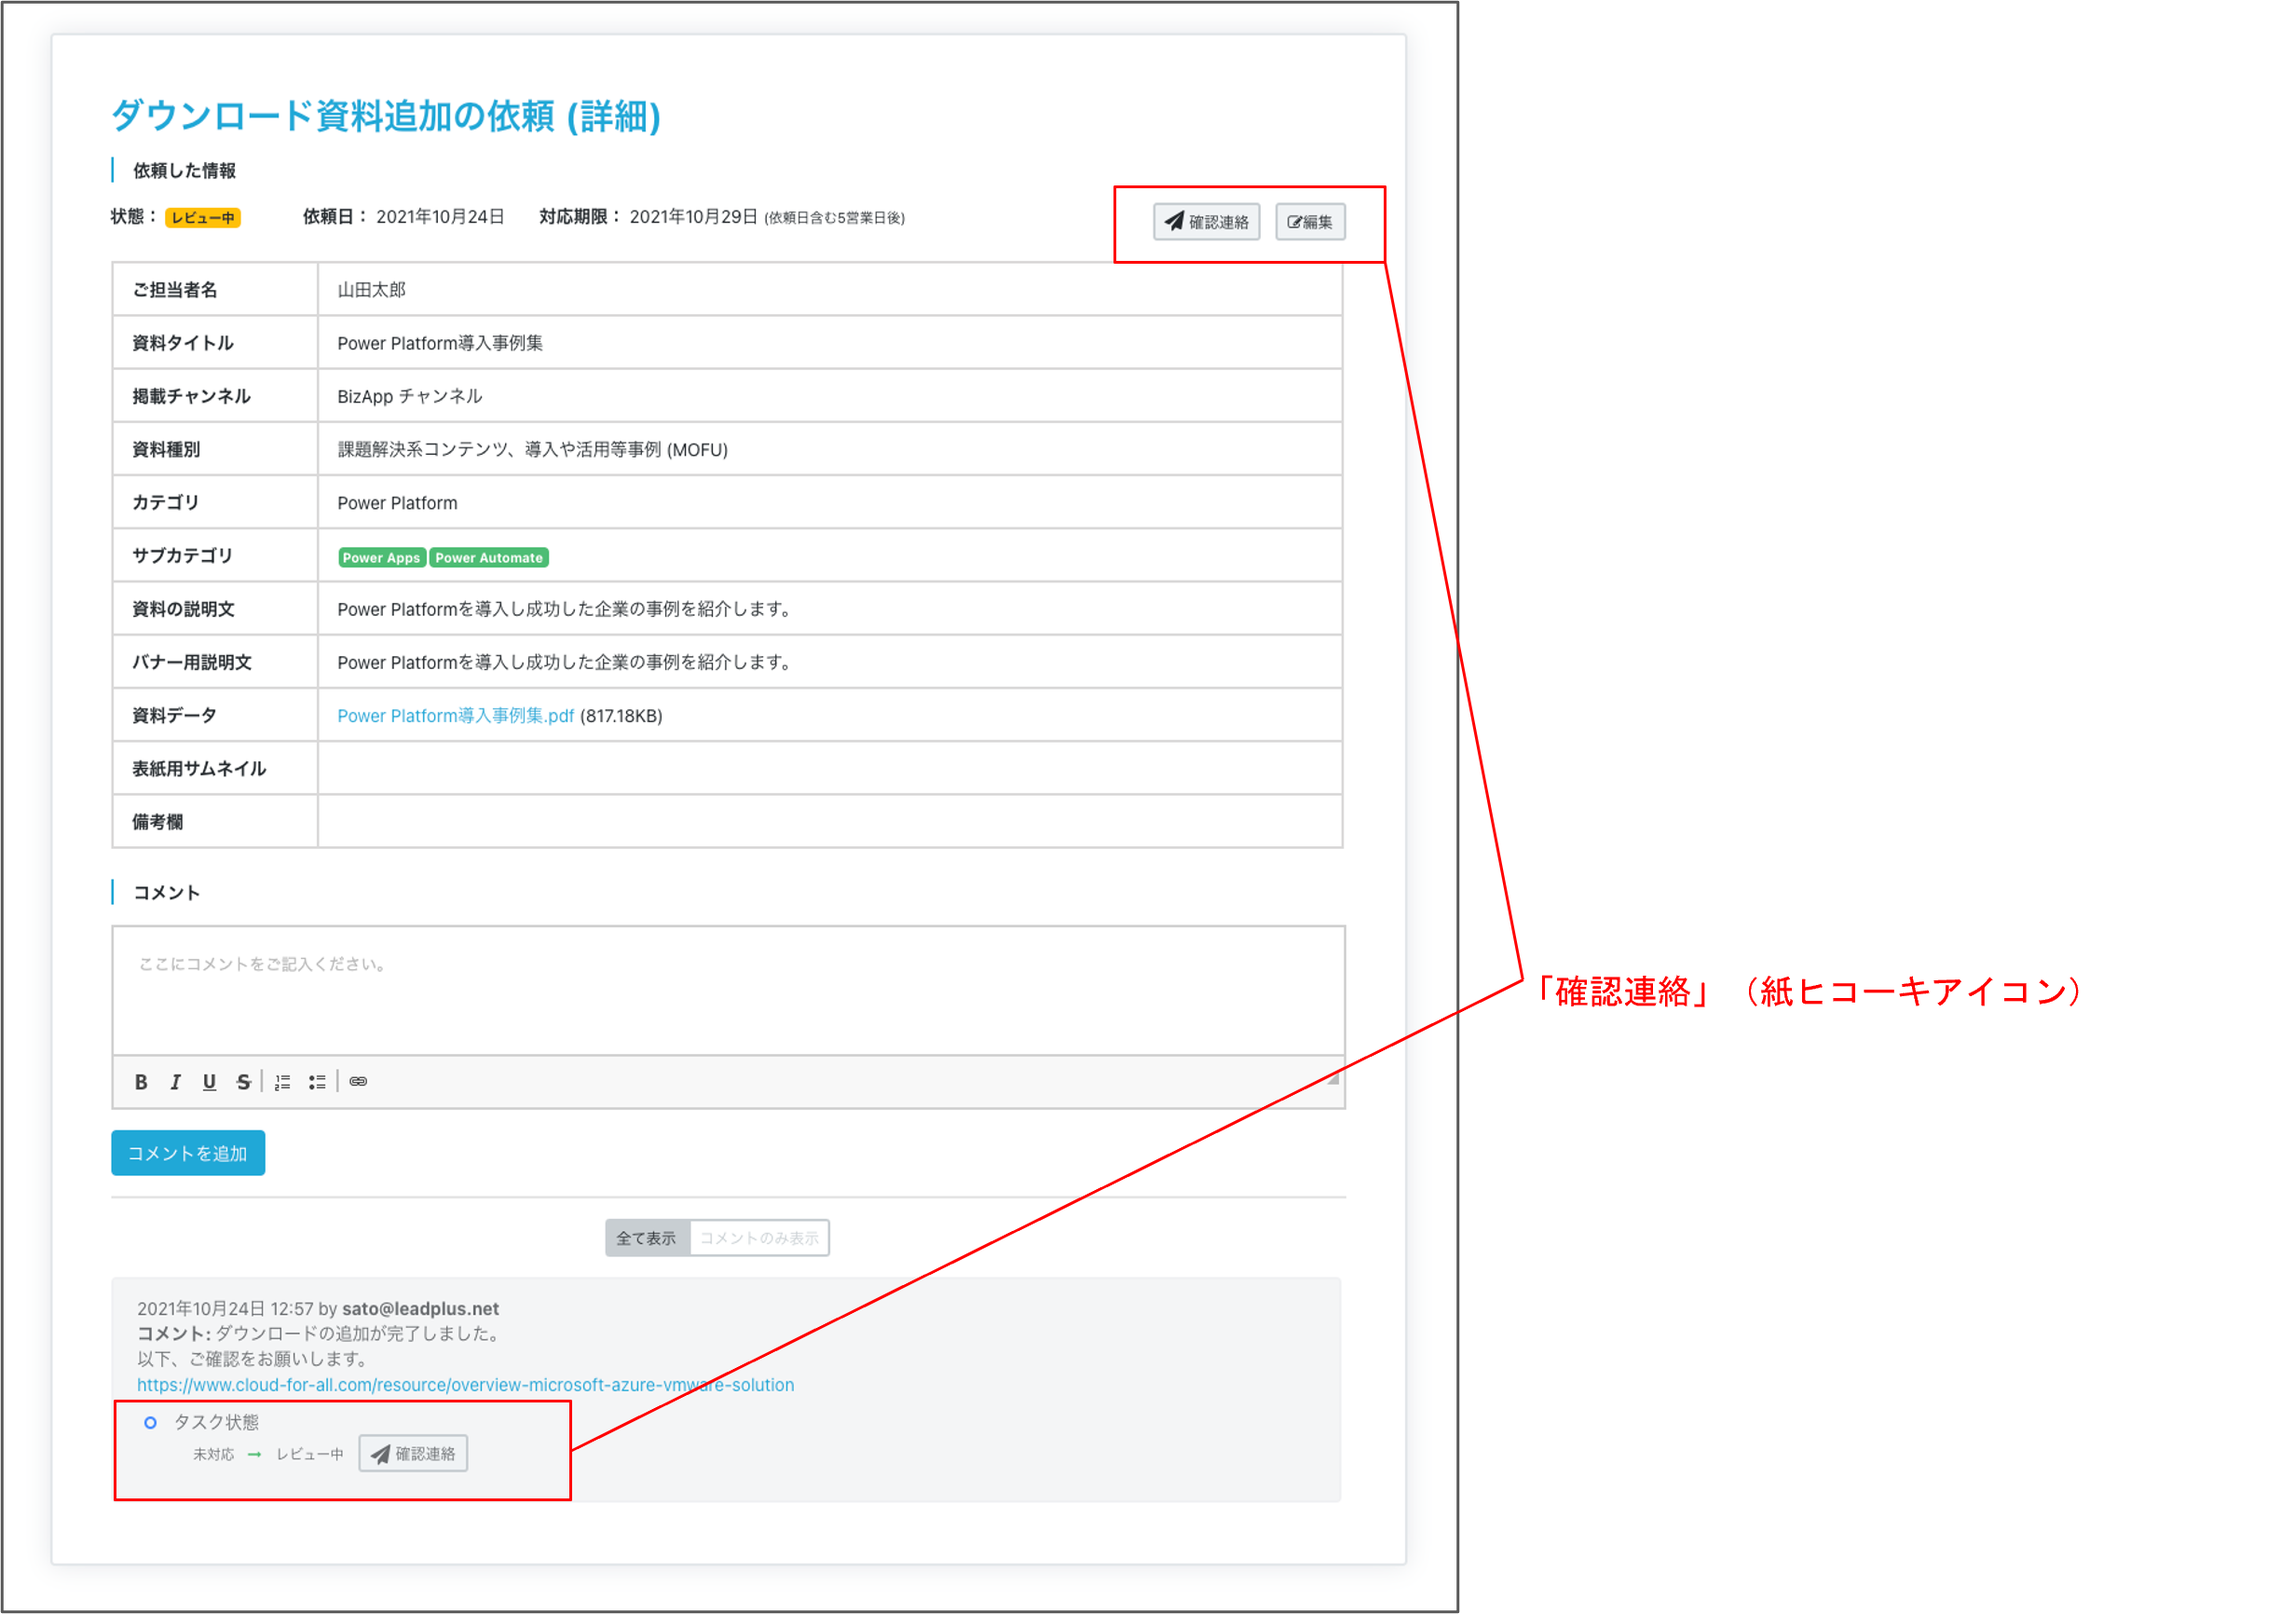
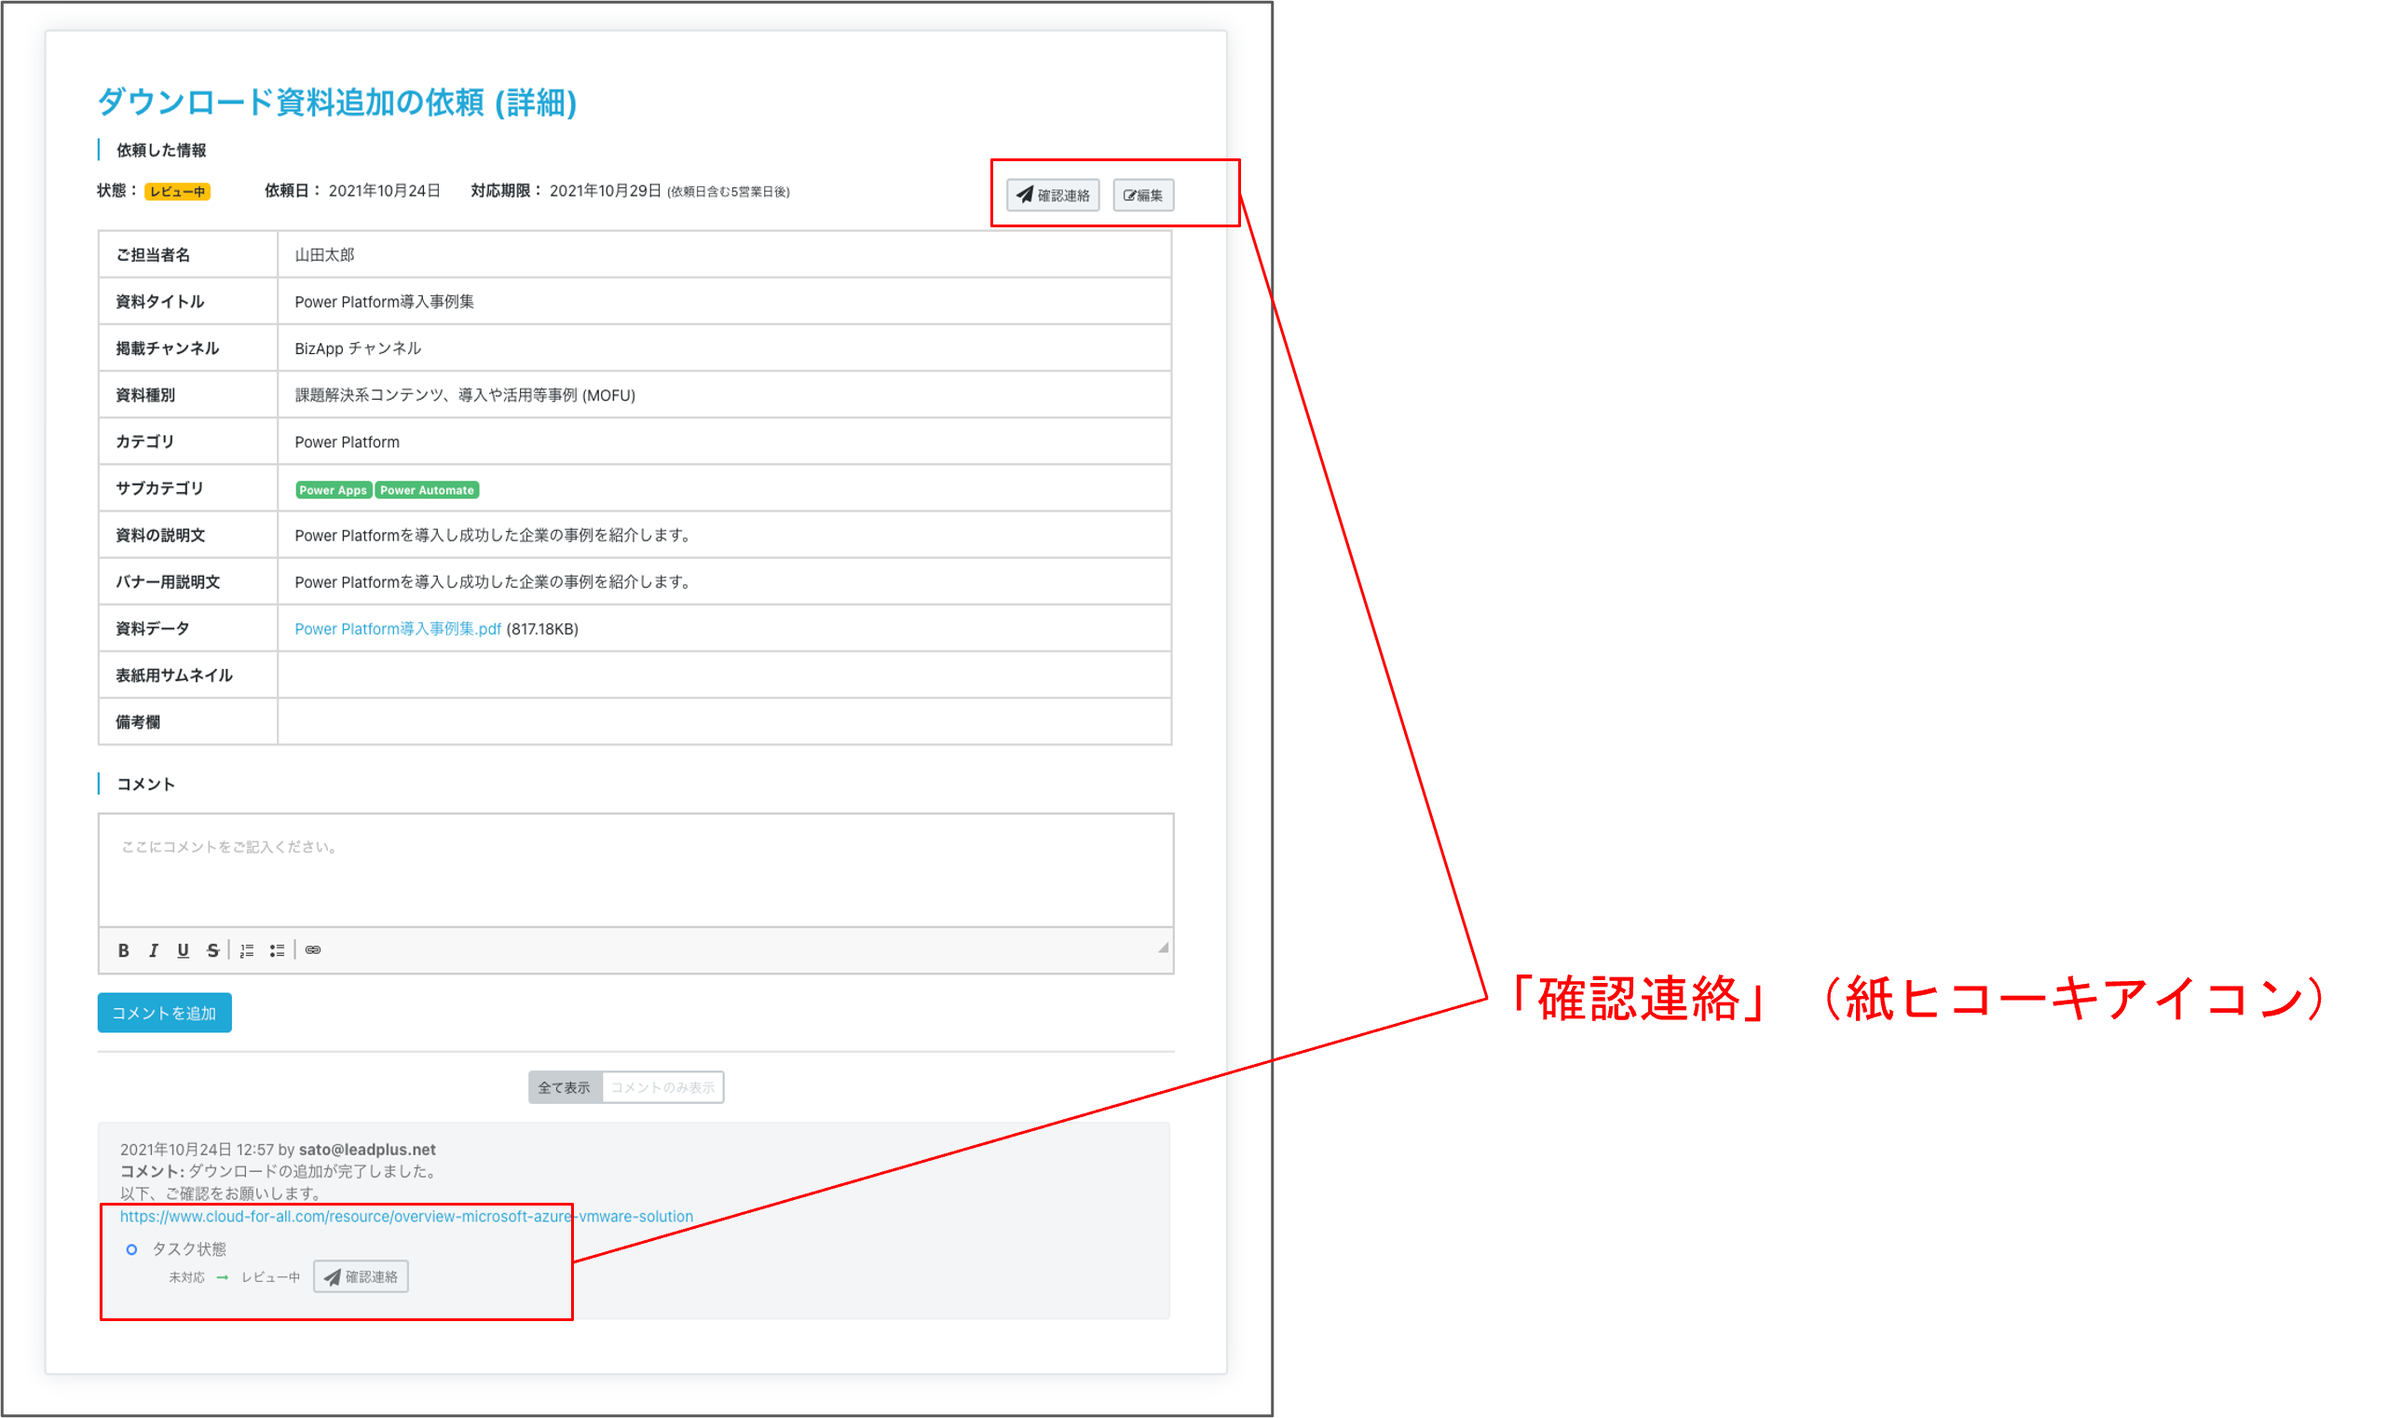
Fix content

diff --git a/index.html b/index.html
@@ -549,7 +549,7 @@
                                     </div>
                                     <div class="right">
                                         <div class="right-content">
-                                            <img class="ClickToZoom" style="width: 550px;" alt="" style="padding : 1px;" src="lib/Picture1215.png">
+                                            <img class="ClickToZoom" style="width: 550px;" alt="" style="padding : 1px;" src="lib/Picture1214.png">
                                         </div>
                                     </div>
                                 </div>
@@ -708,7 +708,7 @@
                                     </div>
                                     <div class="right">
                                         <div class="right-content">
-                                            <img class="ClickToZoom" style="width: 350px;" alt="" style="padding : 1px;" src="lib/Picture17.png">
+                                            <img class="ClickToZoom" style="width: 400px;" alt="" style="padding : 1px;" src="lib/Picture17.png">
                                             <p class="text"><span class="rvts17">［ダウンロード資料追加依頼画面］</span></p>
                                         </div>
                                     </div>
@@ -781,7 +781,7 @@
                                     </div>
                                     <div class="right">
                                         <div class="right-content">
-                                            <img class="ClickToZoom" style="width: 550px;" alt="" style="padding : 1px;" src="lib/Picture22.png">
+                                            <img class="ClickToZoom" style="width: 550px;" alt="" style="padding : 1px;" src="lib/Picture2930.png">
                                             <p class="text"><span class="rvts17">［タスク詳細］</span></p>
                                         </div>
                                     </div>
@@ -812,7 +812,7 @@
                                     <div class="left">
                                         <div class="left-content">
                                             <li>依頼タスク一覧画面の「タスク依頼を登録」から<br/>「ダウンロード資料差し替え依頼」を選択します。</li>
-                                            <li>「ダウンロード資料差し替え依頼」を選択します。
+                                            <li>ダウンロード資料差し替え依頼画面（右図）に必要項目を入力します。
                                                 <p class="title-sub-menu">入力項目</p>
                                                 <ul class="sub-menu">
                                                     <li>ご担当者様名</li>
@@ -1461,7 +1461,7 @@
                                     </div>
                                     <div class="right">
                                         <div class="right-content">
-                                            <img class="ClickToZoom" style="width: 350px;" alt="" style="padding : 1px;" src="lib/Picture41.png">
+                                            <img class="ClickToZoom" style="width: 550px;" alt="" style="padding : 1px;" src="lib/Picture41.png">
                                             <p class="text"><span class="rvts17">［タスク詳細］</span></p>
                                         </div>
                                     </div>
